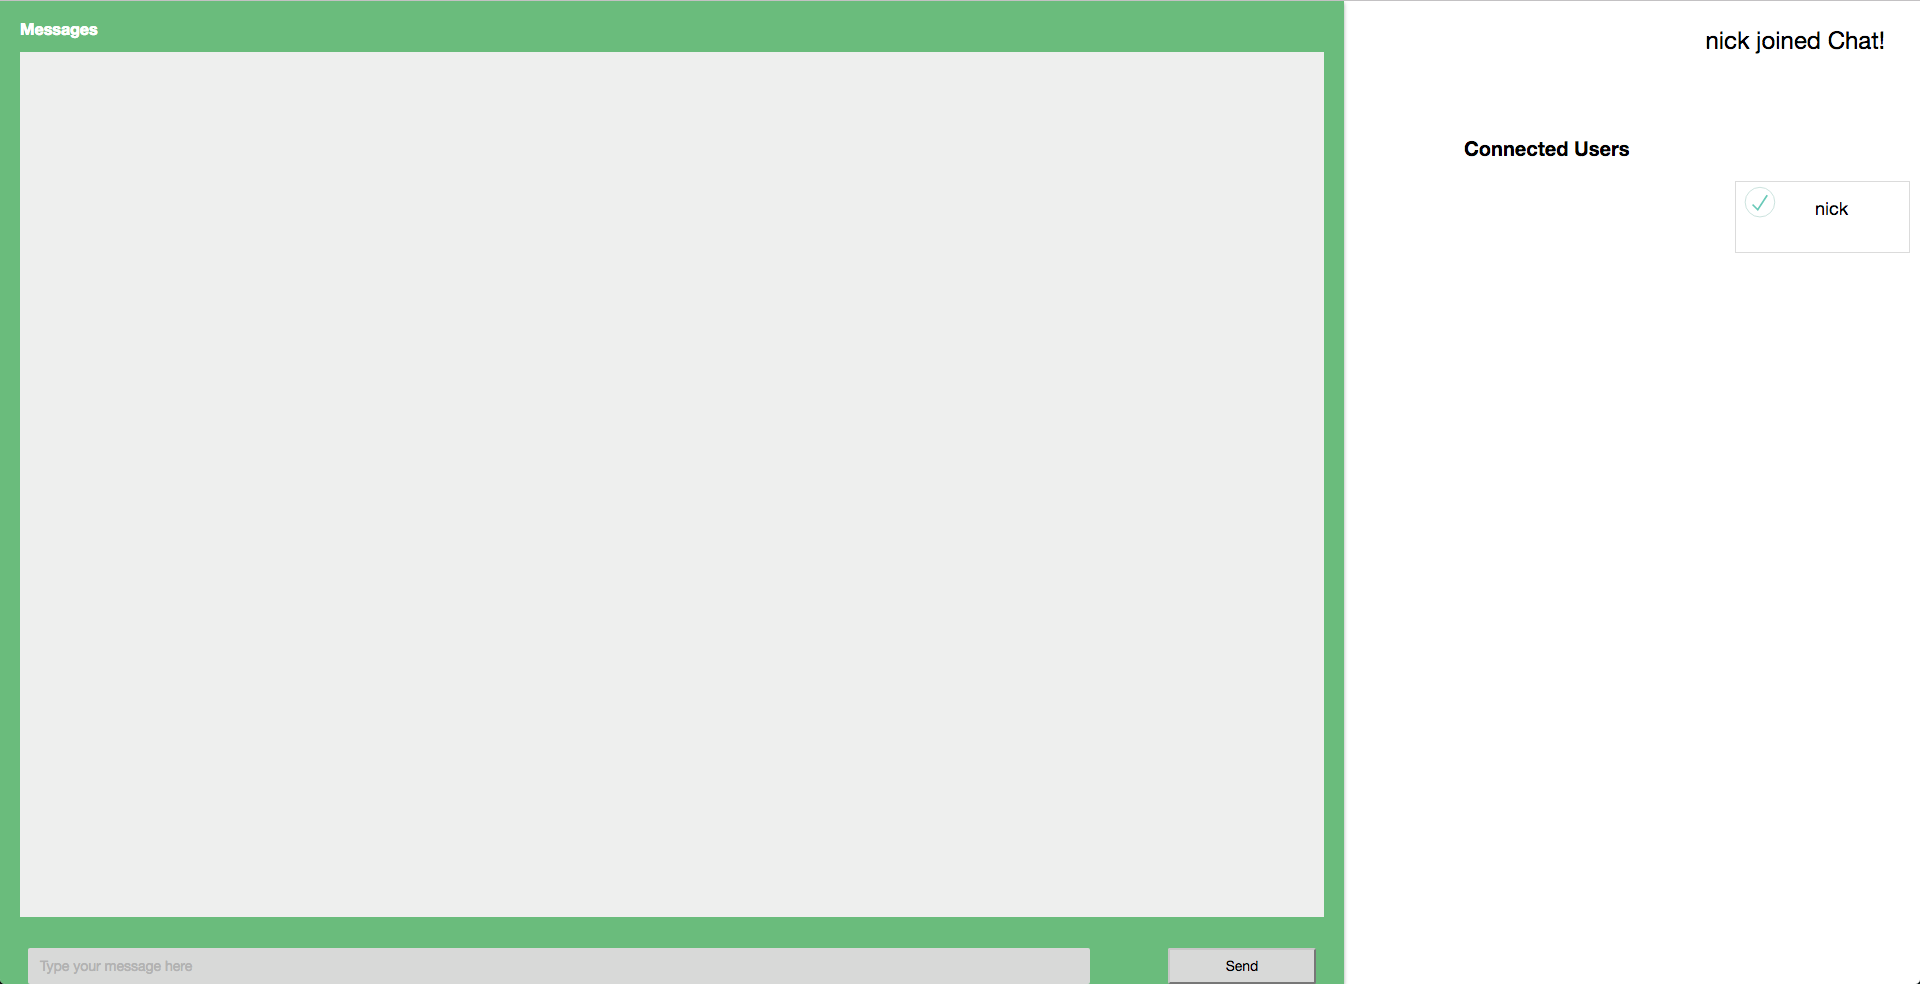
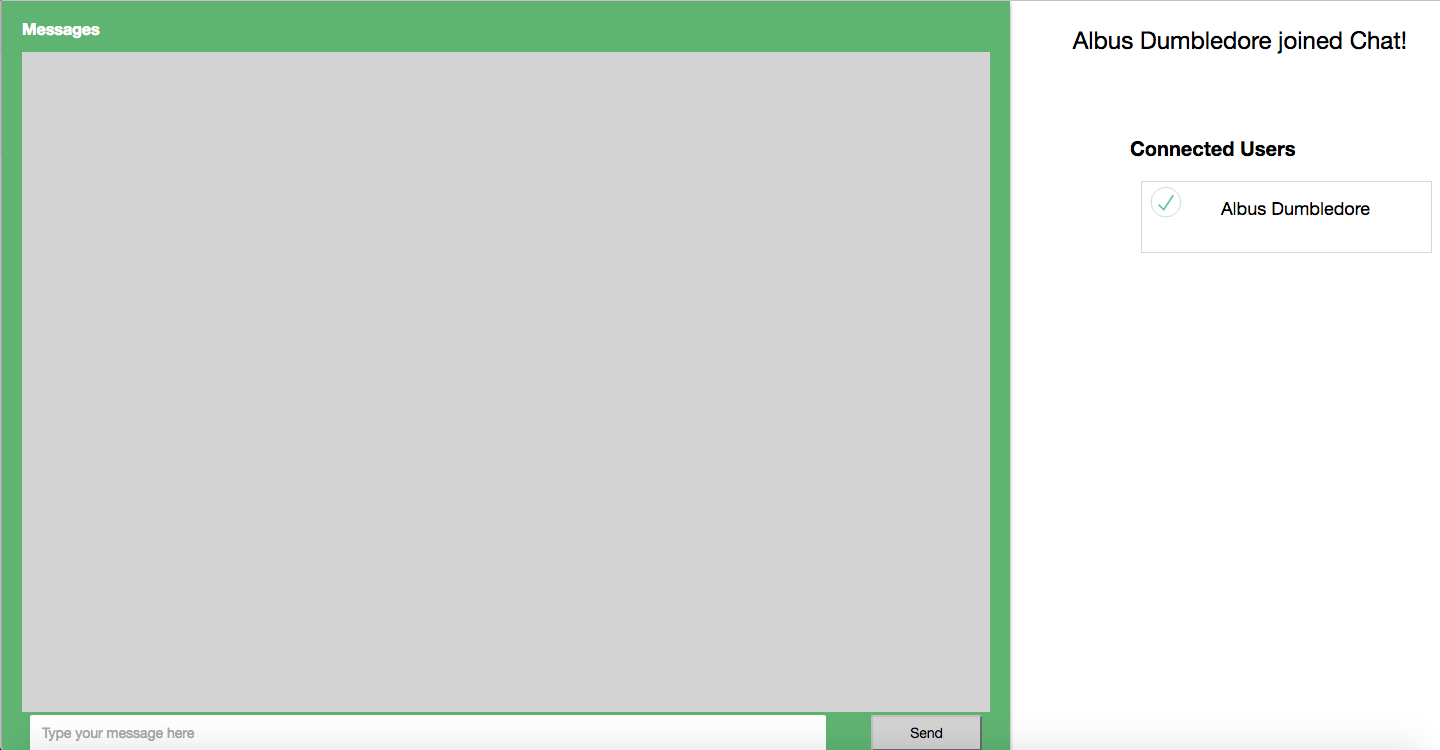
Modified CSS,Screenshots

diff --git a/styles.css b/styles.css
@@ -128,7 +128,7 @@ background: #000; padding: 3px; position: fixed; bottom: 0; width: 100%;
 }
 
 .chat-box, .enter-message{
-  background:#ECECEC;
+  background:#d3d3d3;
   padding:0 20px;
   color:#a1a1a1;
   height: 88%;
@@ -159,7 +159,6 @@ background: #000; padding: 3px; position: fixed; bottom: 0; width: 100%;
   border:none;
   cursor: auto;
   padding:10px 12px;
-  background:#d3d3d3;
   width:79%;
   border-radius:2px;
   position: absolute;
